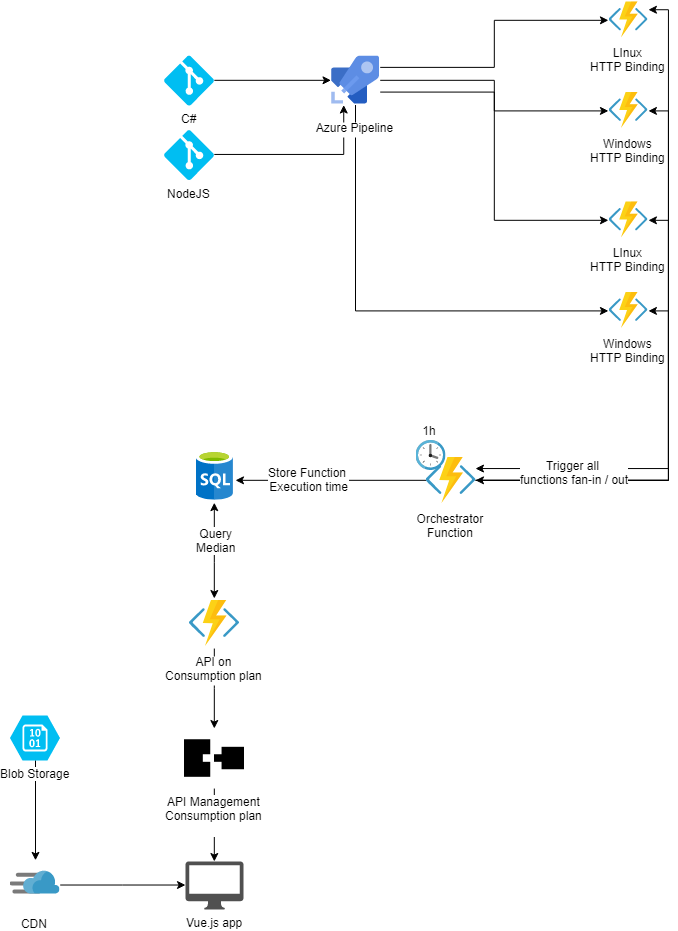
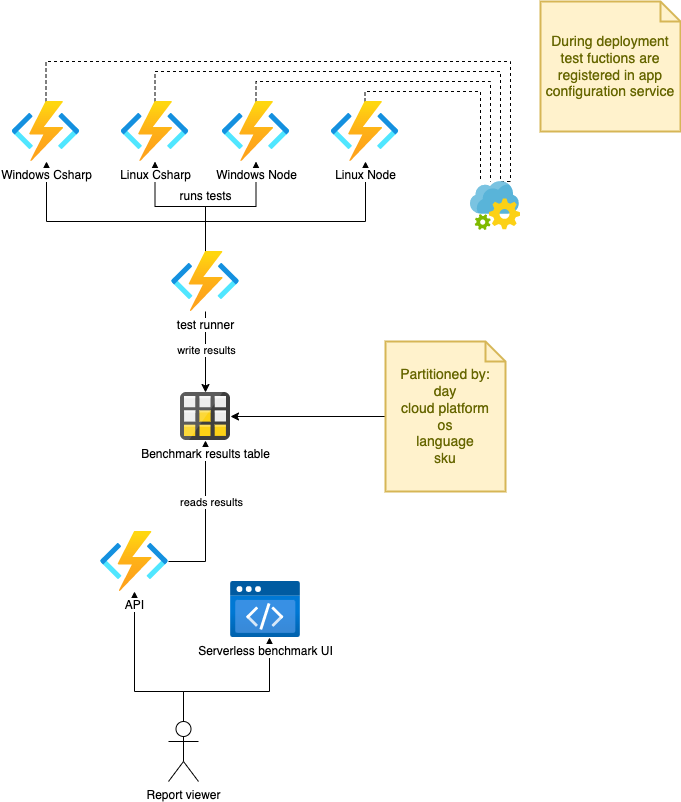
fixed docs

diff --git a/ReadMe.md b/ReadMe.md
@@ -21,30 +21,16 @@ There's an orchestrator function that executes HTTP GET requests to every functi
 
 ## Global Architecture
 
-- Github code repository.
-- Azure Pipeline builds and releases.
-- ARM for Azure infrastructure deployment.
-- Deploys Multiple HTTP Triggered functions To the Cloud:
- - NodeJS (Linux)
- - C#.NET (Linux)
- - Python (Linux)
- - Java (Linux)
- - F# (Linux)
- - NodeJS (Windows)
- - C#.NET (Windows)
- - Python (Windows )
- - Java (Windows )
- - F# (Windows )
-- Deploys the benchmark orchestrator.
-- A SQL database to store the results.
-- An Azure Functions API with Azure API Management consumption tier.
-- Vuejs front-end hosted on Azure Blob storage with a CDN.
+Core to the architecture is the app configuration service.
+It is used to register the test endpoints and details like the name.
+This allows for an easy extension of the run test set by just adding a bicep deployment with the correct details.
+
 
 <img src='docs/global architecture.png' />
 
 ## Author
 
-Florian Schaal @ cloudrepublic.nl
+cloudrepublic.nl
 
 ## License
 
